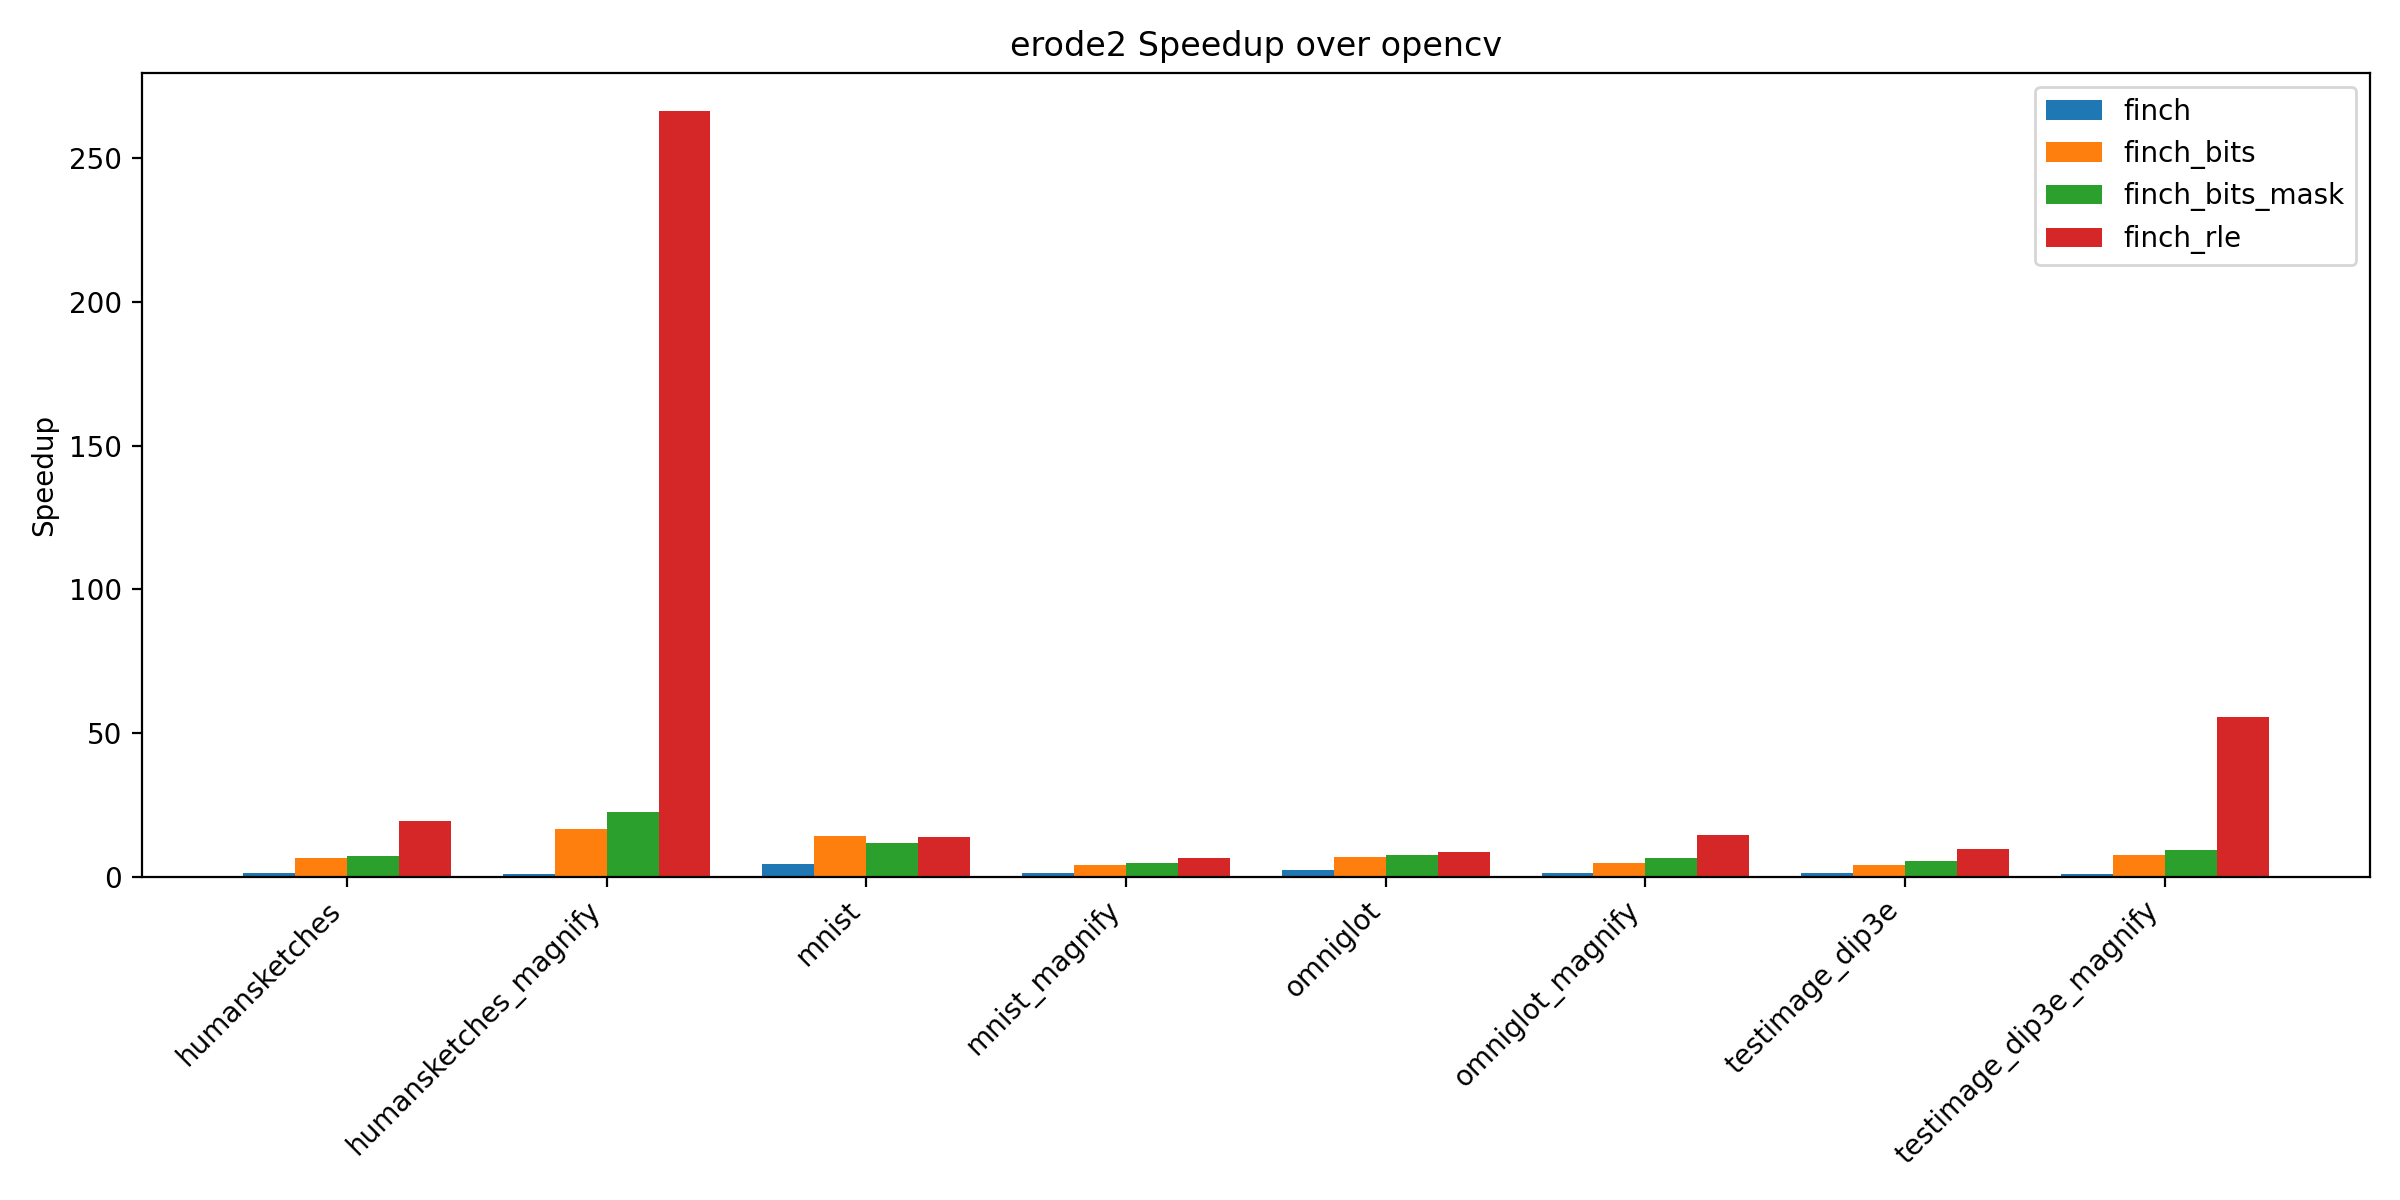
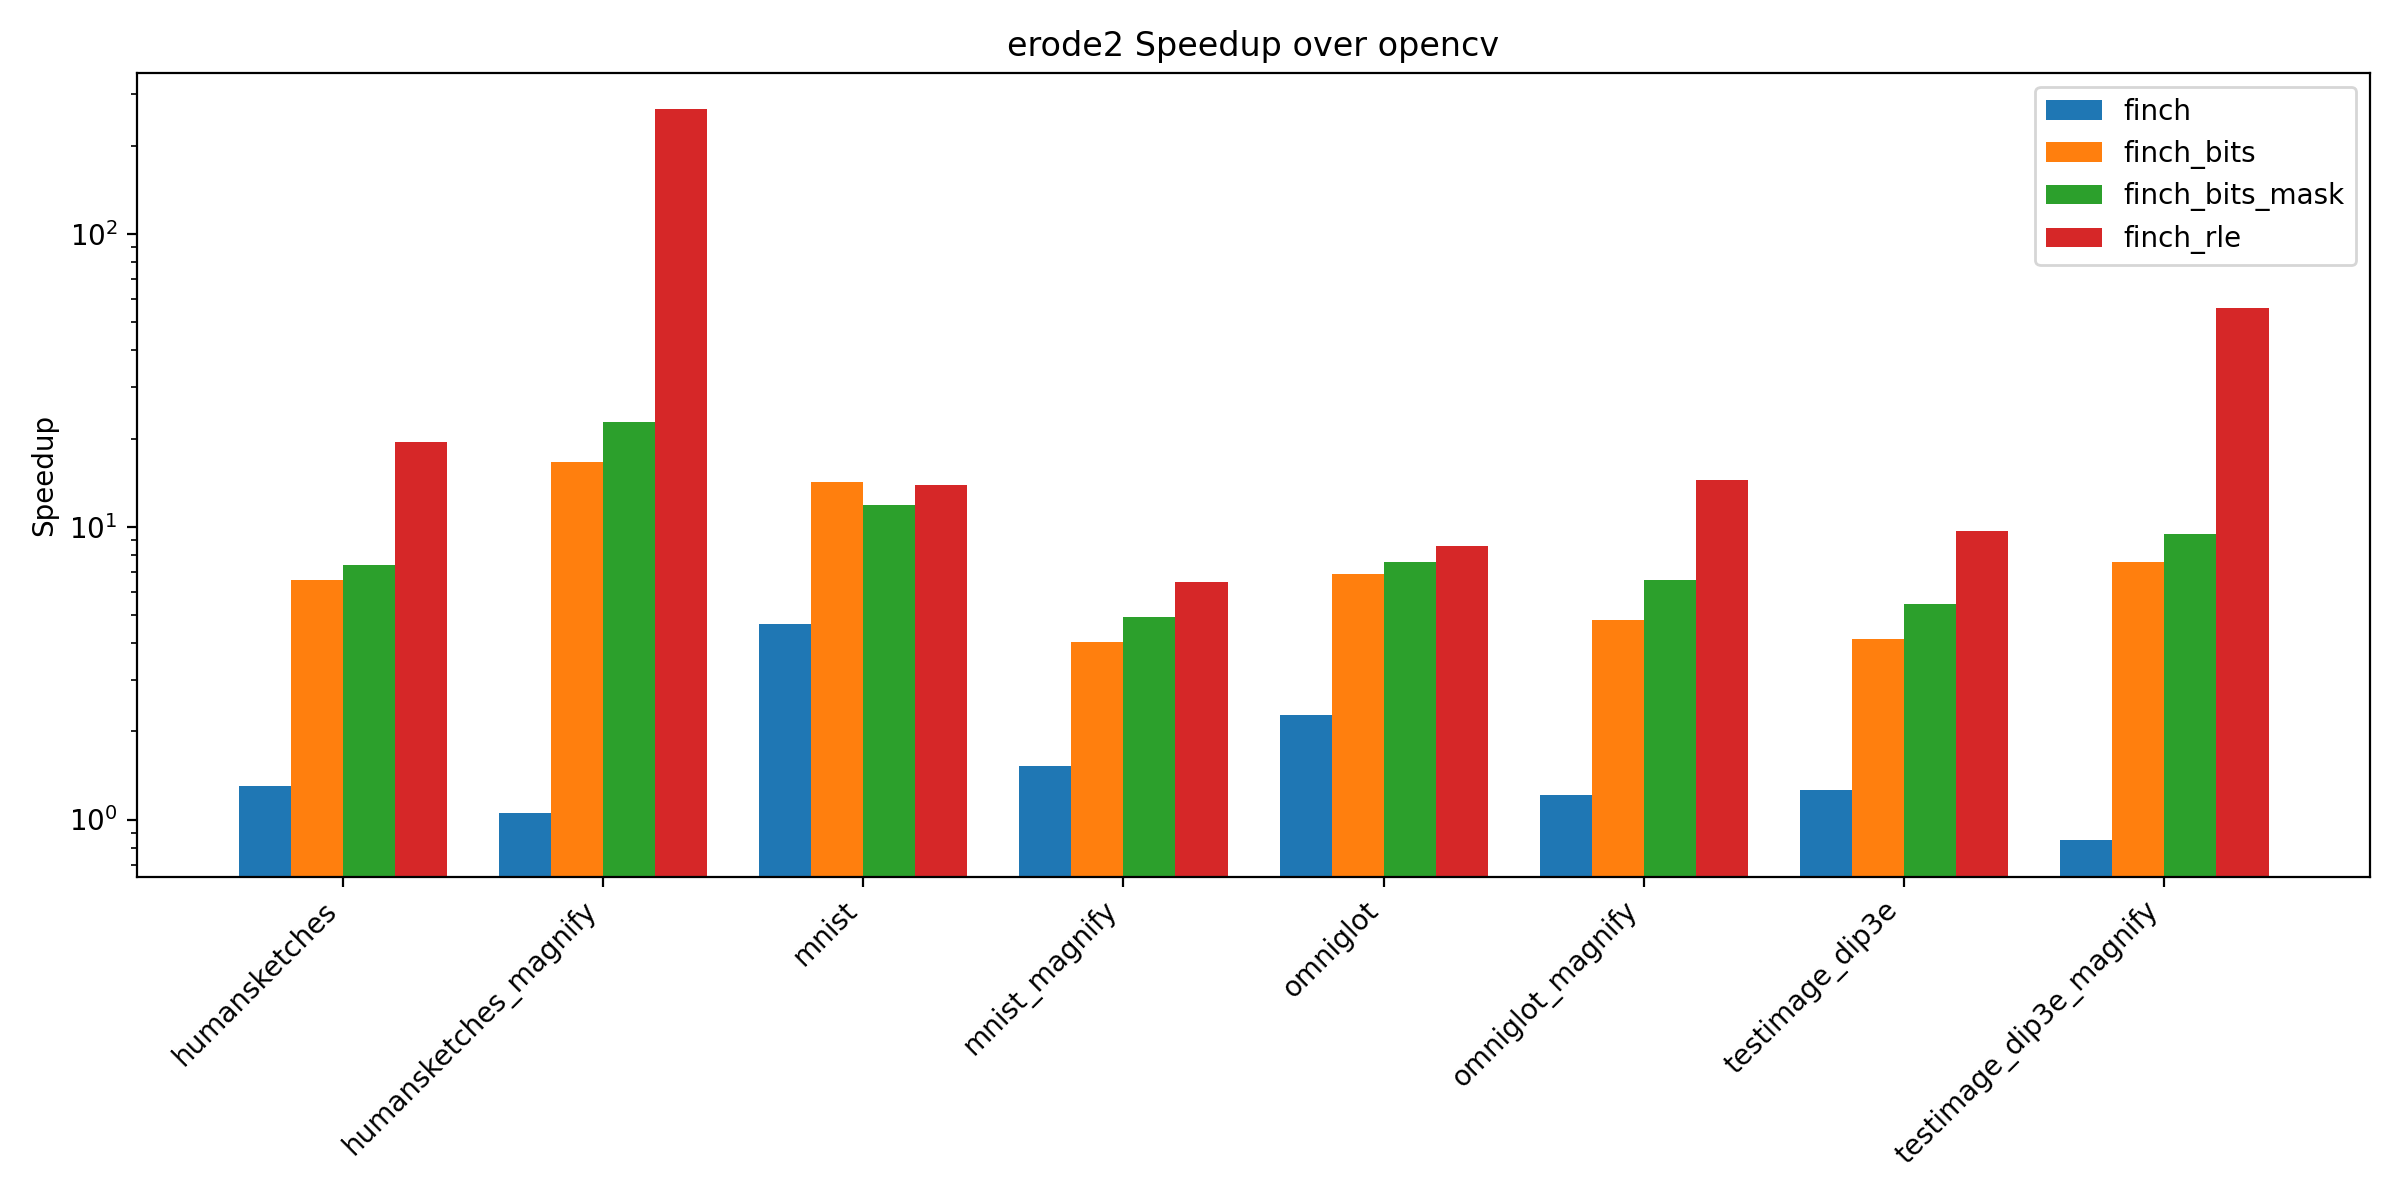
fix

diff --git a/morphology/chart.py b/morphology/chart.py
@@ -8,7 +8,7 @@ from scipy.stats import gmean
 RESULTS_FILE_PATH = "lanka_data.json"
 CHARTS_DIRECTORY = "./charts/"  # Ensure this directory exists
 
-def generate_chart_for_operation(operation, baseline_method="opencv"):
+def generate_chart_for_operation(operation, baseline_method="opencv", log_scale=False):
     # Load the results from the JSON file
     results = json.load(open(RESULTS_FILE_PATH, 'r'))
 
@@ -49,9 +49,9 @@ def generate_chart_for_operation(operation, baseline_method="opencv"):
     # Plot
     datasets = sorted(datasets)  # Sort datasets for consistent plotting
     methods = sorted(geomean_data.keys())
-    make_grouped_bar_chart(methods, datasets, geomean_data, title=f"{operation} Speedup over {baseline_method}")
+    make_grouped_bar_chart(methods, datasets, geomean_data, title=f"{operation} Speedup over {baseline_method}", log_scale=log_scale)
 
-def make_grouped_bar_chart(labels, x_axis, data, title="", y_label="Speedup"):
+def make_grouped_bar_chart(labels, x_axis, data, title="", y_label="Speedup", log_scale=False):
     x = np.arange(len(x_axis))  # the label locations
     num_labels = len(labels)
     width = 0.8 / num_labels  # the width of the bars, adjust to fit
@@ -67,6 +67,9 @@ def make_grouped_bar_chart(labels, x_axis, data, title="", y_label="Speedup"):
     ax.set_xticklabels(x_axis, rotation=45, ha="right")
     ax.legend()
 
+    if log_scale:
+        ax.set_yscale('log')  # Set the y-axis to a logarithmic scale
+
     plt.tight_layout()
     fig_file = f"{title.lower().replace(' ', '_').replace('-', '_').replace('/', '_')}.png"
     plt.savefig(CHARTS_DIRECTORY + fig_file, dpi=200)
@@ -76,6 +79,6 @@ if not os.path.exists(CHARTS_DIRECTORY):
     os.makedirs(CHARTS_DIRECTORY)
 
 # Generate charts for each operation by calling the function with the operation and baseline method
-generate_chart_for_operation("erode2", baseline_method="opencv")
-generate_chart_for_operation("erode4", baseline_method="opencv")
-generate_chart_for_operation("hist", baseline_method="opencv")
+generate_chart_for_operation("erode2", baseline_method="opencv", log_scale=True)
+generate_chart_for_operation("erode4", baseline_method="opencv", log_scale=True)
+generate_chart_for_operation("hist", baseline_method="opencv", log_scale=True)
